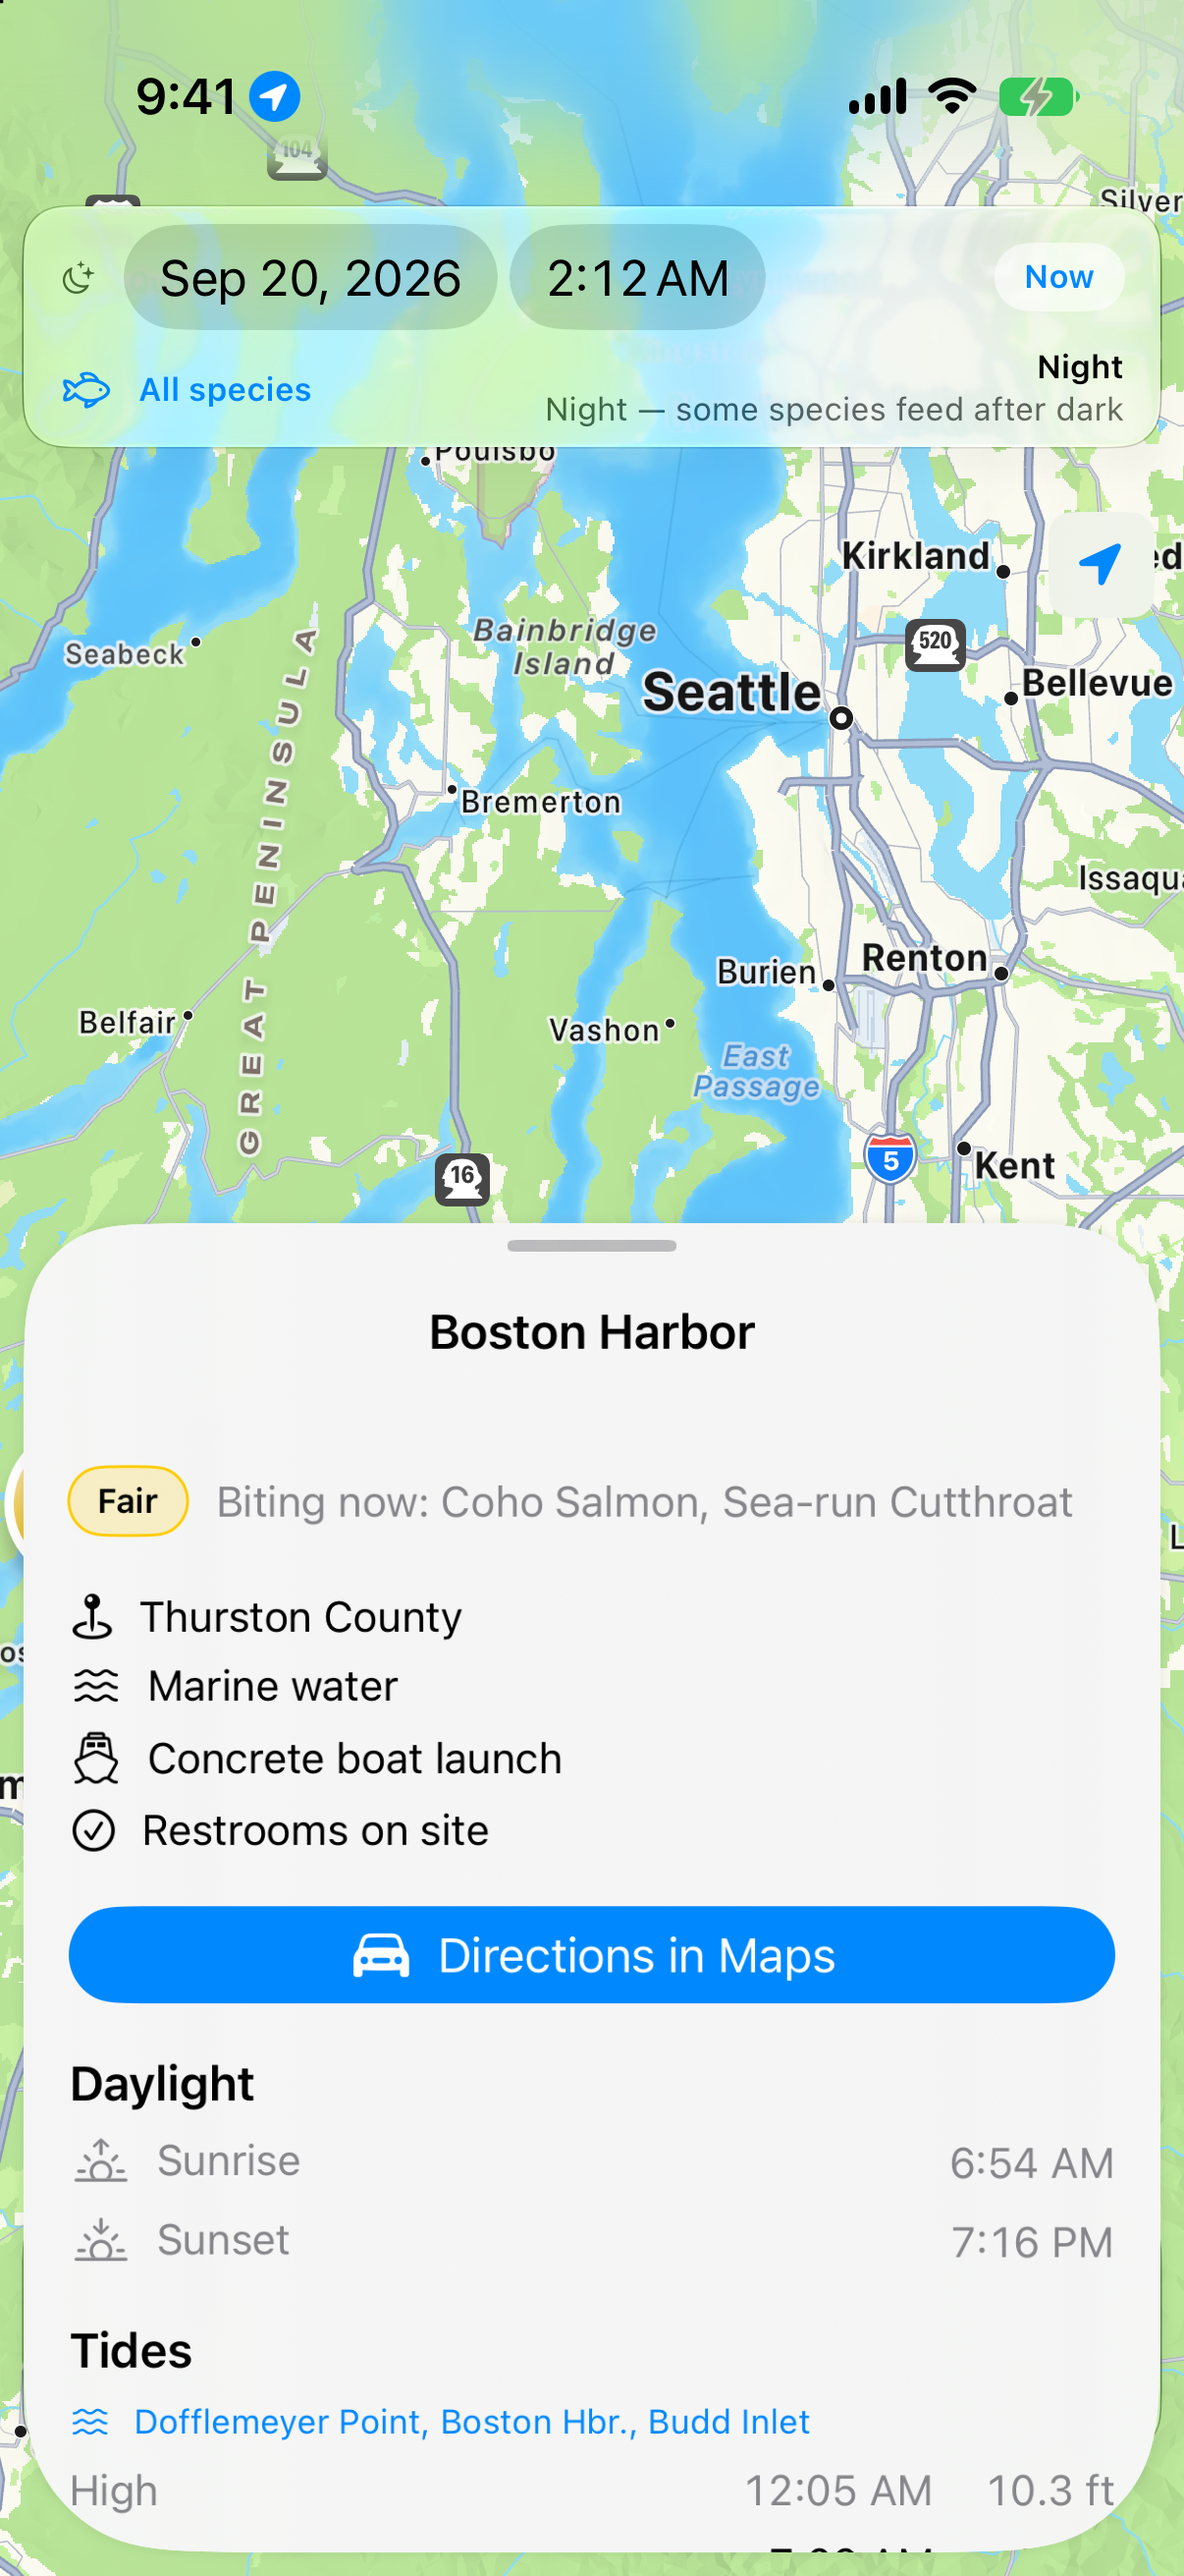
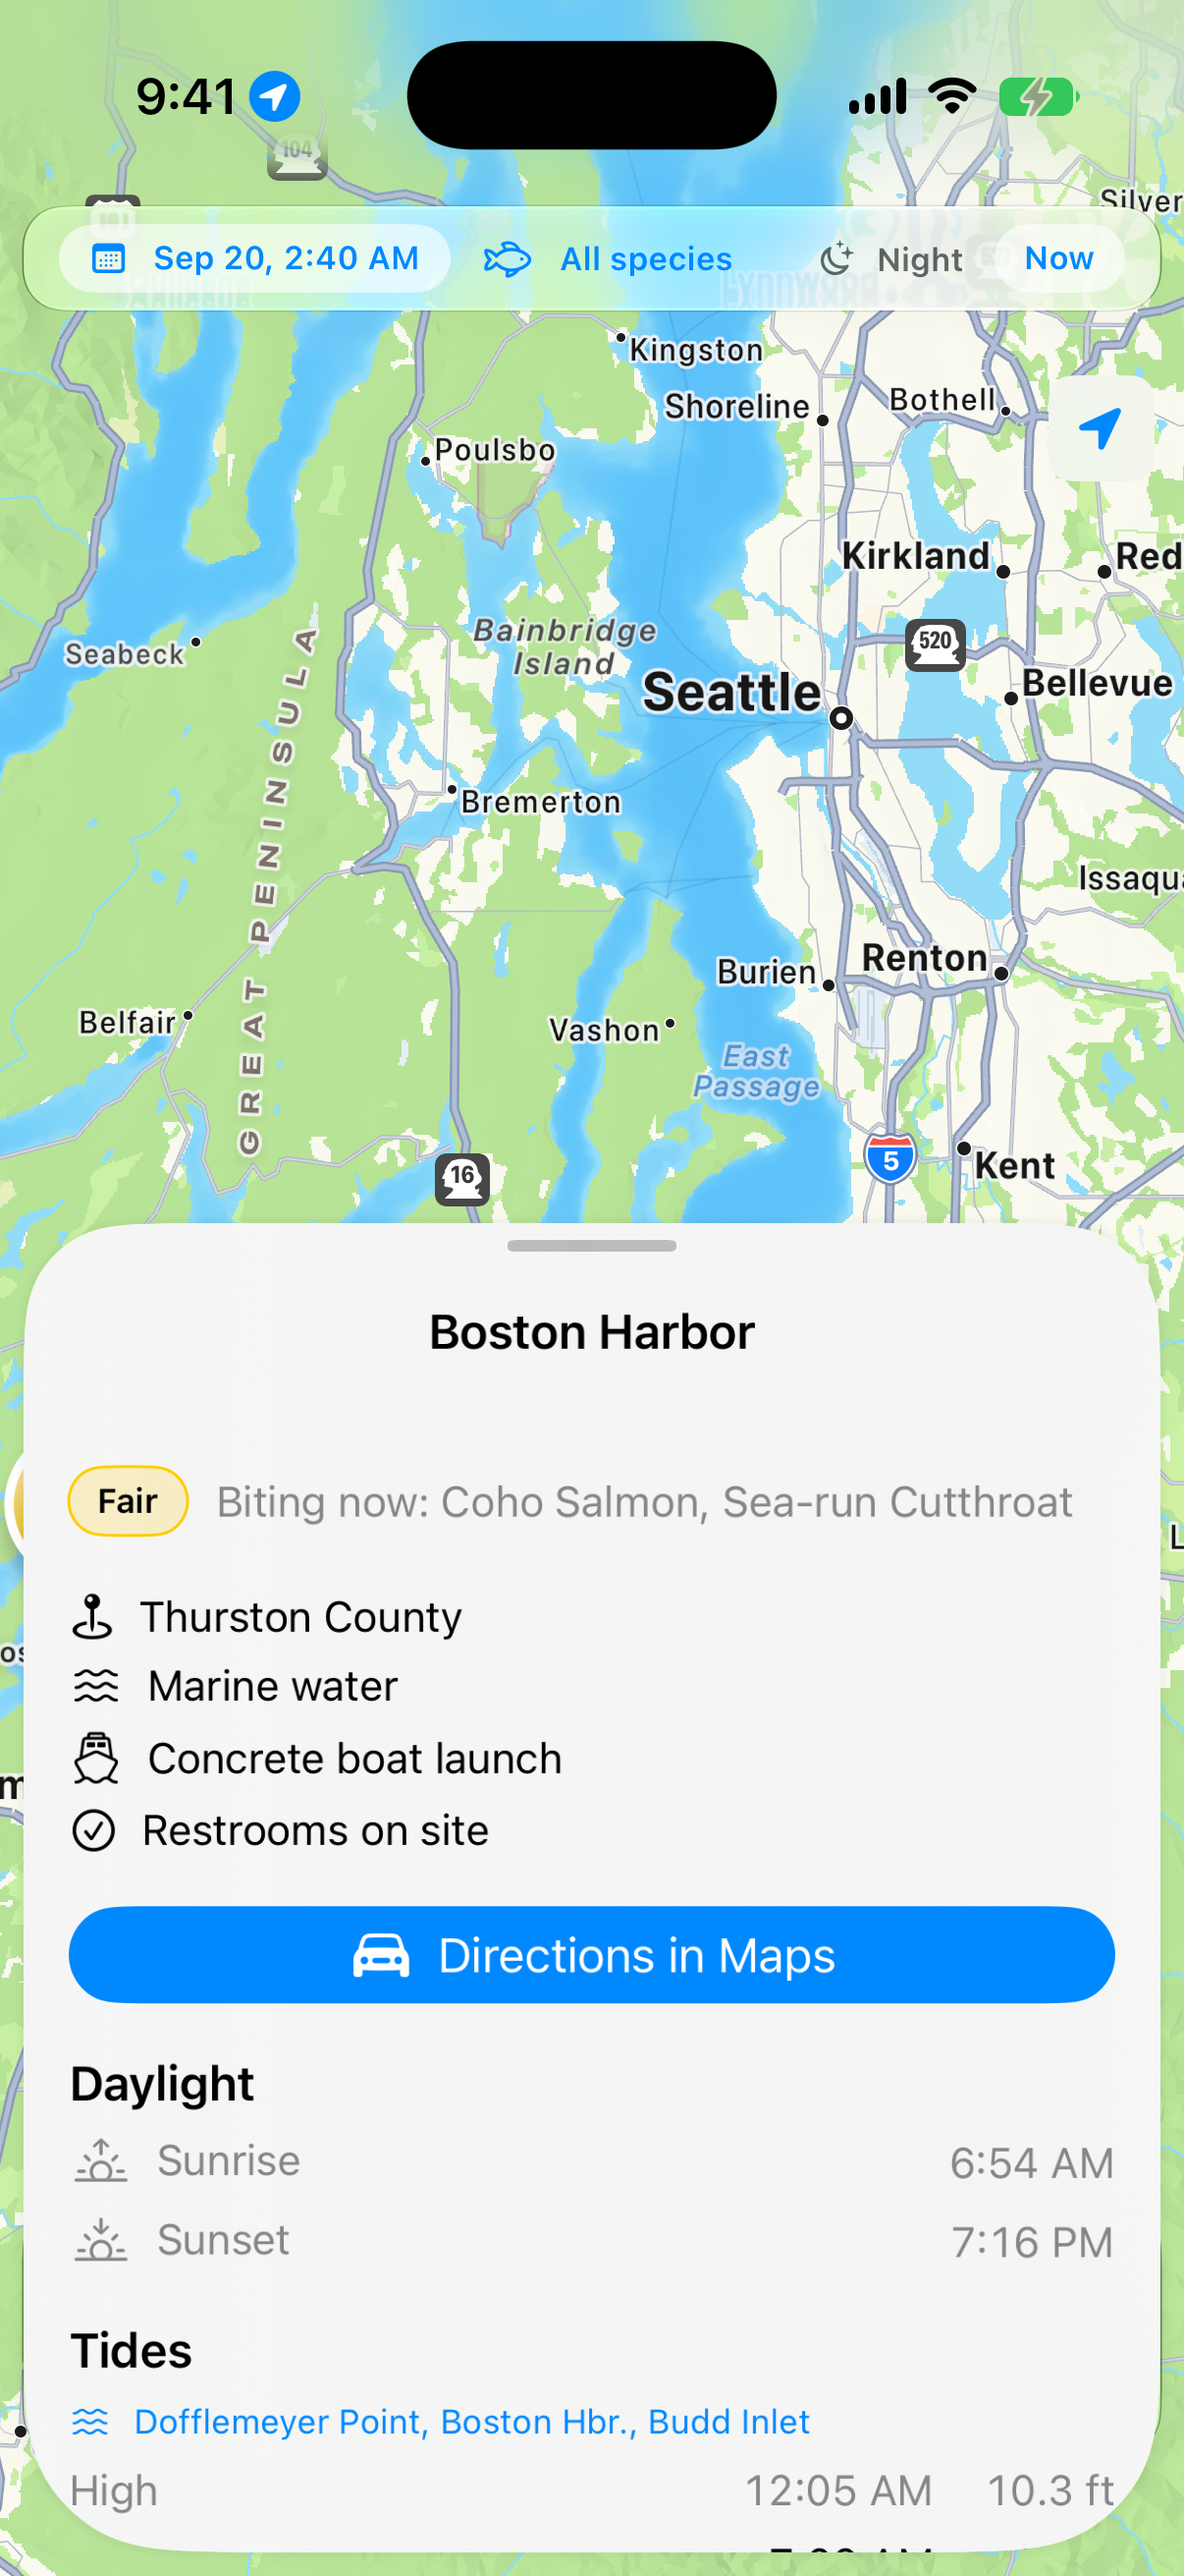
Regenerate every frame against today's build
All eight, from the build carrying the flow strip, the season ribbon and the
chrome trim. They had gone stale against every change in this session.

The river frame is the one worth looking at: it shipped as a screenshot of
"Couldn't reach USGS for a live reading", because the seam that opens the
sheet never calls USGS. It now shows 93 cfs, the range strip with its marker
past the p75 edge, water temperature and the gauge attribution.

Changed region(s): [[0.0, 0.0, 0.9818, 0.2471]]

diff --git a/STATUS.md b/STATUS.md
@@ -524,3 +524,43 @@ current counts rather than trusting a number written here.
   it is a subview rather than a badged glyph image.
 - Still not verified: the 44pt tap target. It is a geometry assertion; an edge
   tap on hardware is the other half.
+
+### 2026-09-20 (detail-sheet graphics, and slice 7's chrome trim)
+
+- Decided: river flow draws as a range strip with a marker, never a bar.
+  `flowRating` is non-monotonic on purpose -- bony and blown out are both
+  unfishable -- so a filled bar would encode more-is-better, which is the wrong
+  claim. `trackPosition` interpolates through the five percentile stops rather
+  than along the cfs axis, because flow distributions are skewed: on a
+  plausible day the median is 400 of a 1600 range, so a linear axis would put
+  it a quarter along instead of halfway.
+- Decided: the season ribbon rotates to start at the current month rather than
+  anchoring on January. A November-to-February season splits into two
+  disconnected blobs at opposite ends of a fixed strip, which is the most
+  misleading case it could have. Every card rotates identically, so species
+  stay comparable on one sheet. Both the contiguous run and the January-anchored
+  split are asserted, so the reason is a test rather than a comment.
+- Decided: a typical-size bar was considered for the species card and rejected.
+  The silhouette already scales with weight, several weights are flagged
+  unverified in `SpeciesSize`, and halibut beside rainbow trout has no honest
+  shared axis.
+- Observed: the ribbon's risk mark shipped white on first draft, which is the
+  same 1.51:1 defect slice 4 fixed on the map. Caught by looking at the rendered
+  sheet, not by any test. Fixed by reusing `SiteMarkerView.glyphTint(on:)` so
+  the ribbon and the map cannot drift apart, with a test pinning both to one
+  rule. Second time today that looking found something every green check missed.
+- Observed: the shipped App Store river frame was a screenshot of an error
+  message. `-uiTesting` loads the bundled fixture and never calls USGS, so the
+  sheet could only render "couldn't reach USGS". `fixtureFlow` gives it the
+  gauge's own p75 -- deliberately off centre, where a marker pinned at the
+  median would hide an axis that was not being applied at all.
+- Decided (slice 7): the header is one row. The light-hint sentence moved to the
+  info popover, the duplicated sun/moon glyph is gone, and date and time sit
+  behind one button that opens a graphical picker. The compact `DatePicker`'s
+  pills ignore `controlSize` and were what forced the bar onto two lines.
+- Decided (slice 7): a cluster is named for its lead member only. MapKit's
+  default "<first member> +N more" draws under a badge already reading N, and
+  those labels were most of the regional frame's clutter. The count survives on
+  the badge and in the accessibility value.
+- Still blocked on a human, unchanged: the ASC resubmit and the on-device
+  VoiceOver pass.
